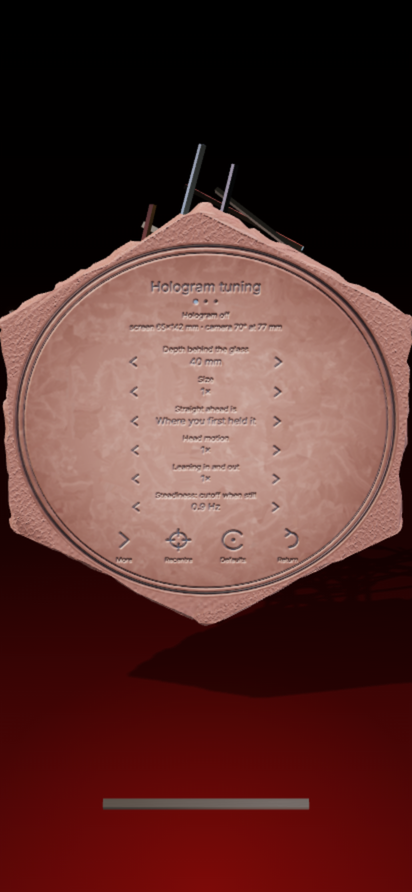
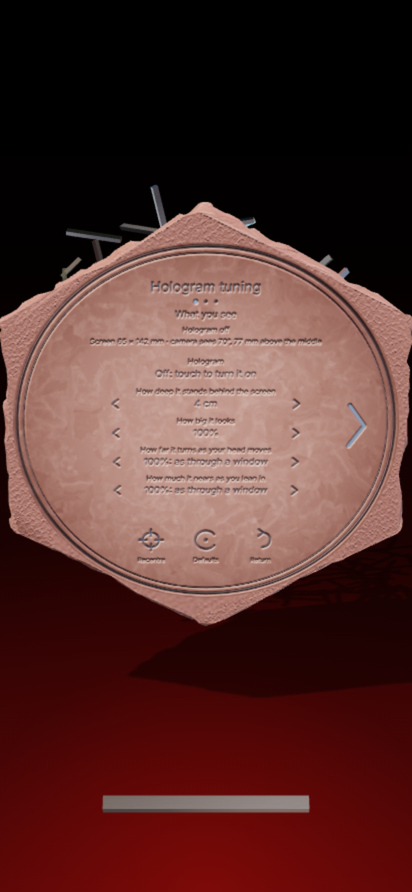
Kal-toh 2.3: begin anew works after a change of game; README and pictures
- After the original game gave way to rings, "begin anew" and shaking
  did nothing: they still read the original game's last phase, which
  stays "dissolving". Only the game in play is asked now.
- README for 2.3: the two games, the original's rules, ways that say
  what they mean, arrows at the rim to turn pages, the hologram's on/off
  and its tuning in plain words, and how the camera is read. New
  pictures: the jumble, the finished kal-toh on its axis, the carving
  read in Standard, the ways with an arrow, the tuning.

Claude-Session: https://claude.ai/code/session_01CQSpDyMziA3C9B7p659SkK

diff --git a/kaltoh/android/app/src/main/assets/www/js/main.js b/kaltoh/android/app/src/main/assets/www/js/main.js
@@ -748,8 +748,13 @@ async function vulcanTurn() {
 
 // --- Beginning anew --------------------------------------------------------------------------
 
+// Whether the game in play is falling away, a new one on its way.
+function dissolving() {
+  return way === 'classic' ? classic?.phase === 'dissolving' : phase === 'dissolving';
+}
+
 function restart() {
-  if (phase === 'loading' || phase === 'dissolving' || classic?.phase === 'dissolving') return;
+  if (phase === 'loading' || dissolving()) return;
   if (way === 'classic') {
     hand.holding = false;
     hand.flight = null;
@@ -886,7 +891,7 @@ function onEngravedOption(key, value) {
 
 const shake = new ShakeDetector({
   onProgress(p) {
-    shaking = phase === 'dissolving' || classic?.phase === 'dissolving' || hand.holding ? 0 : p;
+    shaking = dissolving() || hand.holding ? 0 : p;
     if (shaking > 0.1) sound.rattle(p);
   },
   onComplete: () => {

diff --git a/kaltoh/README.md b/kaltoh/README.md
@@ -2,20 +2,30 @@
 
 > "Kal-toh is to chess as chess is to tic-tac-toe."
 
-A playable take on the Vulcan game of *Star Trek: Voyager*, as an Android app. A splintering
-nest of steel *t'an* hangs over a stone basin, gathered about a centre mass and held by a field
-that spins on a hidden axis. Players take turns placing one t'an at a time. Close a loop around
-that hidden axis and it becomes a ring. Overload the structure and pieces fall. Ring by ring,
-order comes out of the chaos, and when the form is complete the chaos falls away.
+A playable take on the Vulcan game of *Star Trek: Voyager*, as an Android app, with two games
+of steel *t'an* on a stone basin:
+
+- **The kal-toh**, the way to play at first. A jagged jumble of t'an rests over the basin. Join
+  two tips at a time with a new t'an: true neighbours bring order, false bonds fall, until the
+  jumble becomes the kal-toh, two concentric icosidodecahedra joined junction to junction,
+  spinning true on its hidden axis.
+- **Rings.** A splintering nest of t'an hangs over the basin, gathered about a centre mass and
+  held by a field that spins on a hidden axis. Close a loop around that axis and it becomes a
+  ring. Overload the structure and pieces fall. Ring by ring, order comes out of the chaos.
 
 Nothing is written on the screen. The title, the instructions and every control are carved into
 the underside of the stone: tip the base over to read them, from whichever side you like.
 
 <p align="center">
-  <img src="docs/nest.png" width="19%" alt="The starting nest">
+  <img src="docs/jumble.png" width="19%" alt="The jumble of the original game">
+  <img src="docs/sphere.png" width="19%" alt="The completed kal-toh, spinning on its axis">
+  <img src="docs/nest.png" width="19%" alt="The starting nest of rings">
   <img src="docs/ring.png" width="19%" alt="A ring forming">
-  <img src="docs/complete.png" width="19%" alt="A completed globe">
+  <img src="docs/complete.png" width="19%" alt="A completed globe of rings">
+</p>
+<p align="center">
   <img src="docs/underside.png" width="19%" alt="The carved underside of the base">
+  <img src="docs/ways.png" width="19%" alt="The ways to play, with an arrow at the rim to turn the page">
   <img src="docs/tuning.png" width="19%" alt="The hologram's tuning, carved">
 </p>
 
@@ -38,16 +48,41 @@ over an older one without uninstalling.
 |---|---|
 | Turn the base | Drag the stone or open space. Sideways spins it like a potter's wheel; up and down tips it toward or away from you, all the way over. Let go mid-drag and it glides on, then stops. The base always turns about the centre of the sphere-to-be. |
 | Turn the t'an | Drag anywhere within the t'an's outline, even between them. The assembly turns on the base and stays wherever you leave it. It has its own weight: when the base turns it lags behind and catches up, and flung, it coasts to a stop. Left alone it never moves on the base at all. It never cuts into the stone. While it turns, the stone gives way just enough; when the stone is turned into it, the t'an are bumped aside and settle against it. |
-| Place a t'an | Put **two fingers** on the t'an lying at the foot of the screen to lift it. Move each finger onto a piece of the kal-toh. The two pieces glow blue, and the held t'an shows exactly where it will rest. Let go to place it. |
+| Place a t'an | Put **two fingers** on the t'an lying at the foot of the screen to lift it. Move each finger onto a piece of the kal-toh: in the original game, near the tip you mean to join (the tips light up); in rings, anywhere on a piece. The pieces glow blue, and the held t'an shows exactly where it will rest (amber where it cannot). Let go to place it. |
 | Read | **Tip the base over**, from any side. The carving is found with its top up whichever side it came up from, and as the underside comes to face you it draws near to be read: the title, whose turn it is and the score, what just happened, and how to play. |
 | Translate | Everything is carved in Vulcan. **Touch anywhere on the carving** but a glyph or a value: all of it is smoothed away to bare stone and cut again in Standard, as deep. Touch again for Vulcan. |
-| Test the spin | **Tap the t'an twice**, or touch the spiral carved under the base. The kal-toh spins on its hidden axis, and strained t'an glow amber. |
-| Ways to play | Touch the circle carved under the base. Touch a way's value to change it, then *begin anew* to play that way. The lens with rays there opens the hologram's tuning. |
+| Test the spin | **Tap the t'an twice**, or touch the spiral carved under the base. The kal-toh spins on its hidden axis: in the original game an unbalanced one wobbles; in rings, strained t'an glow amber. |
+| Ways to play | Touch the circle carved under the base. The first way is the game itself. Touch a value to change it; some say beneath what they mean. Where there are more ways than fit, a large **arrow carved at the rim** turns the page, and one on the other side turns back. A change to the game waits for a new one: the carving says so and *begin anew* glows. Touch it to play that way. The lens with rays there opens the hologram's tuning. |
 | Begin anew | **Shake the phone for three seconds**, or touch *begin anew* under the base. |
 | Draw nearer | Pinch. |
-| Hologram | Touch the lens carved under the base (or turn it on in the ways to play). See below. |
+| Hologram | Touch the lens carved under the base: beneath it is carved *Hologram on* or *Hologram off*. It is also the first row of the hologram's tuning, and a row of the ways to play. See below. |
 
-### The rules
+### The kal-toh (the original game)
+
+- **The hidden form.** The jumble is the kal-toh scrambled. Its true skeleton is a tree of 29
+  t'an from the outer icosidodecahedron, with every joint twisted about its own t'an, so the
+  joints keep their true angles: two t'an meeting at **60°** frame a triangle of the finished
+  sphere, at **108°** a pentagon. The other 90 t'an (the inner shell and the struts between the
+  shells) are tangled through it. Only junctions of the hidden order answer your touch.
+- **A move** joins the tips of two t'an with a new one. Because the skeleton is a tree, every
+  join closes a loop, and the pieces shift until the tips meet.
+  - *Harmony*: the tips are true neighbours in the sphere. The loop pulls into its true shape, a
+    blue wave runs through the structure, and the tangled t'an nearby glide into the inner shell.
+    Closing one of the six great hoops of ten sends a brighter wave round it.
+  - *Discord*: they are not. The new t'an falls away in amber, shaking loose the newest bond at
+    those tips, and the structure slips back toward chaos.
+- **The hidden spin.** The structure spins about a hidden axis, different every game. Every t'an
+  is mass on that spin. A join that would unbalance it past what it can bear is *flung* away even
+  if it is true. Test the spin to find the axis: a balanced kal-toh spins true, an unbalanced one
+  wobbles, its axis circling toward the heavy side. Build evenly around it.
+- **The end.** The sphere is complete when all 60 outer t'an are in place. The inner shell
+  settles, a thread of light shows the axis, and the kal-toh glows. Alone, you are told how many
+  moves it took and how many t'an fell. With others (one to four, taking turns), whoever places
+  the final t'an wins: plan so that your rival is left with only discord or imbalance.
+- Everything rests on the stone as the rings game does: the kal-toh keeps its place on the base,
+  turns with it, is never cut into by it, and its fallen t'an lie where they fall until a new game.
+
+### Rings
 
 - **The t'an** are all one length. They cling magnetically where they touch, and never pass
   through one another. The opening nest is made by dropping each t'an toward the centre mass
@@ -78,14 +113,14 @@ over an older one without uninstalling.
   When the form is complete, everything that is not a ring, the centre mass, or holding them
   together falls away, and the finished kal-toh glows.
 
-### Ways of play
+How to win at rings:
 
-- **Harmony** (default): a ring scores one point per t'an in it. Each t'an your move drops
-  costs one. Completing the form scores ten. The game ends when the form is complete or the
-  t'an run out.
-- **Collapse**: drop two or more t'an in one move and lose a life. The spin quickens every round.
-  The last player standing wins.
-- **Meditation**: alone, with no limit. Complete the form in as few moves as you can.
+- **Most points** (the default): a ring scores one point per t'an in it. Each t'an your move
+  drops costs one. Completing the form scores ten. The game ends when the form is complete or
+  the t'an run out.
+- **Last standing**: drop two or more t'an in one move and lose a life. The spin quickens every
+  round. The last player standing wins.
+- **Fewest moves**: alone, with no limit. Complete the form in as few moves as you can.
 
 Opponent: a Vulcan *novice*, *adept* (default) or *master*, or nobody (pass and play, one to
 four players). Other settings: the spin's strength (unknown by default), a drift, the axis hidden
@@ -96,7 +131,10 @@ whether the carving reads in Vulcan or Standard until touched.
 
 ### Strategy
 
-The axis is the secret. Until a ring forms or someone tests the spin, every loop you close is a
+In the original game, read the angles: a 60° joint is a triangle waiting to be closed, a 108°
+joint a pentagon. Test the spin early and often, and build on the light side of the axis.
+
+In rings, the axis is the secret. Until a ring forms or someone tests the spin, every loop you close is a
 guess. Testing tells everyone, and it costs your turn. Once the axis is known, rings are a race,
 and the game becomes one of tempo, as in dots and boxes. A loop left one t'an short of closing
 is a ring for your opponent, so build toward rings only where you can finish them. Building far
@@ -106,11 +144,12 @@ it found it.
 
 ### Hologram view
 
-Turn on the hologram (the lens under the base) and allow the camera. The screen becomes a pane of
-glass with the kal-toh standing a few centimetres behind it. Move your head, or the phone, and you
-look around it. Lean in and the view through the glass widens; draw back and it narrows, as
-through a real window. Nothing from the camera is shown or stored, and the camera is released
-whenever the game is out of sight. The illusion is strongest with one eye closed.
+Turn on the hologram (the lens under the base, carved *Hologram off* until it is on) and allow the
+camera. The screen becomes a pane of glass with the kal-toh standing a few centimetres behind it.
+Move your head, or the phone, and you look around it. Lean in and the view through the glass
+widens; draw back and it narrows, as through a real window. Nothing from the camera is shown or
+stored, and the camera is released whenever the game is out of sight. The illusion is strongest
+with one eye closed. While it starts, and while it looks for your eyes, the carving says so.
 
 How it works, after the usual practice for head-coupled ("fish tank") perspective:
 
@@ -118,6 +157,10 @@ How it works, after the usual practice for head-coupled ("fish tank") perspectiv
   so the gyroscope plays no part.
 - **Finding the eye.** MediaPipe's face landmarker finds both irises to a fraction of a pixel. It
   runs in a worker thread, on the GPU, or on the CPU if the GPU cannot be had.
+- **Reading the camera.** Frames are taken straight from the camera's track, so there is no
+  video element for Android to pause for being out of sight. If no frames come that way, a video
+  element kept in the page is read instead. If frames come but the GPU never finds a face, the
+  CPU takes over. Whatever it is doing is said in plain words on the tuning pages.
 - **Distance.** The iris is about 11.7 mm across in nearly everyone, so its size in the picture,
   with the camera's focal length, gives the distance.
 - **Your eye in millimetres.** Its direction from the camera, plus where the camera sits beside the
@@ -129,26 +172,29 @@ How it works, after the usual practice for head-coupled ("fish tank") perspectiv
   carried ahead along its motion by the camera's measured delay, so the view does not trail your
   head.
 
-**Tuning.** Every part of this can be tuned on its own carved page, under the base: ways to play,
-then the lens with rays. Values are always shown in numerals, so a photo of the page records a
-setting. The top lines show what the camera sees now: the eye's position in millimetres, frames
-per second and delay, the engine in use, and the screen and camera as measured.
+**Tuning.** Under the base: ways to play, then the lens with rays. Three carved pages, turned by
+the arrows at the rim: *what you see*, *how it follows you* and *your phone*. Touch the left of a
+value to step it down, the right to step it up. Values are always shown in numerals, so a photo
+of a page records a setting. The top lines say what the hologram is doing now (for instance
+*Following your eyes: 38 cm away, 2 cm left, 1 cm up · 30 a second · 60 ms behind*), then the
+screen and camera as measured and what the face finder runs on.
 
-| Value | What it does |
-|---|---|
-| Depth behind the glass | How far behind the screen the kal-toh's centre stands (mm). |
-| Size | Scale of the kal-toh. |
-| Straight ahead is | Where you first held the phone (the default), or the true middle of the screen. |
-| Head motion | Gain on how far your head moves across (1 is true). |
-| Leaning in and out | Gain on how far your head moves toward or away from the screen (1 is true). |
-| Steadiness | The one-euro filter's cutoff when still (Hz). Lower is steadier but slower. |
-| Quickness | How much the cutoff rises with speed. Higher follows fast moves more closely. |
-| Looking ahead | How far ahead the eye is carried. *Auto* uses the measured delay. |
-| Camera view | The front camera's field of view along its long side. *Auto* asks the phone. |
-| Camera above screen centre | Where the camera sits (mm). *Auto* uses the screen's cutout. |
-| Iris width | Your iris's true width, if you know it (mm). |
-| Seen from | Between the eyes, or one eye (for viewing with the other closed). |
-| Face tracker runs on | GPU or CPU. |
+| Page | Value | What it does |
+|---|---|---|
+| What you see | Hologram | On or off. |
+| | How deep it stands behind the screen | From the glass to the kal-toh's centre, in cm. |
+| | How big it looks | Its scale. |
+| | How far it turns as your head moves | 100% is true to life, as through a window. Less is calmer; more exaggerates. |
+| | How much it nears as you lean in | The same, for moving toward or away from the screen. |
+| How it follows you | Straight on is | Where you first held the phone (the default), or square to the screen. |
+| | Calm when you hold still | The one-euro filter's cutoff when still (Hz). Lower is calmer but slower to start. |
+| | Keeping up when you move fast | How much that cutoff rises with speed. Higher follows fast moves more closely. |
+| | Running ahead of the camera's delay | How far ahead the eye is carried (ms). *Auto* uses the measured delay. |
+| | It follows | The point between your eyes, or one eye (for viewing with the other closed). |
+| Your phone | The front camera's view, long side | Its field of view. *Auto* asks the phone. |
+| | The front camera, above the screen's middle | Where the camera sits (mm). *Auto* uses the screen's cutout. |
+| | Your iris, across | Your iris's true width, if you know it (mm). 11.7 fits nearly everyone. |
+| | The face finder runs on | The GPU (quicker) or the CPU (surer). |
 
 The recentre glyph sets where you hold the phone now as the centre; the defaults glyph restores
 every value. If the page cannot use the camera at all, the Android shell's own, rougher face
@@ -169,10 +215,15 @@ tracker takes over.
       stay in touch, nothing interpenetrates, and the most stretched contact lets go first.
     - `rules.js`: placement, loops around the axis (a breadth-first search over how many times a
       path has crossed a cut around the axis), rings, forms, modes, scoring.
+    - `classic-rules.js`: the original game. The icosidodecahedral lattice, the jumble (a
+      balanced spanning tree with every joint twisted, steered clear of the stone beneath it),
+      harmony, discord, imbalance and the wobble.
     - `ai.js`, `ai-worker.js`: the Vulcan. It tries moves on copies of the game, looks a reply
       ahead, and builds arcs round the axis. It knows the axis only once it has been revealed.
-  - The view: `scene.js` (renderer, lights, mess-hall reflections, the stone, and the window
-    the screen becomes), `motion.js` (base and assembly dynamics, and every t'an kept clear of
+  - The view: `classic.js` (the original game on the stone: the jumble's skeleton kept rigid by a
+    small position-based solver as each junction finds its order, the inner shell settling into
+    place, joining, the spin test and the end), `scene.js` (renderer, lights, mess-hall
+    reflections, the stone, and the window the screen becomes), `motion.js` (base and assembly dynamics, and every t'an kept clear of
     the stone along its length), `rodmesh.js` (brushed stainless t'an with a procedural
     lengthwise scratch normal map), `falling.js` (fallen t'an: tumbling, coming to rest on the
     stone or the floor, and staying until a new game), `tray.js`, `input.js`, `engrave.js`
@@ -192,7 +243,12 @@ tracker takes over.
   - `rules.test.mjs`: placement, rings, forms, modes, the Vulcan, and physical invariants
     checked after every move of many random games. Every t'an keeps its length, nothing passes
     through anything, nothing floats, and every bond bears its load.
-  - `browser-check.cjs`: plays the real game in headless Chromium with simulated touch. It covers
+  - `classic.test.mjs`: the original game's lattice, jumbles (every t'an whole, every joint true),
+    harmony, discord, and complete spheres, balanced and won by whoever places the last t'an.
+  - `browser-check.cjs`: plays the real game in headless Chromium with simulated touch. First the
+    original game: the jumble grows, a two-finger lift joins true neighbours, a false bond falls,
+    two taps test the spin, and no t'an passes into the stone. Then it changes the game in the
+    carved ways to play, turning their pages by the arrows at the rim, and plays rings. It covers
     placing, the Vulcan's reply, the spin test, a ring, and turning the base: the t'an lag, catch
     up, then hold perfectly still. It turns the t'an by their area and checks no t'an ever passes
     into the stone. It turns the base over to read it (top up whichever way it was turned) and
@@ -205,6 +261,7 @@ tracker takes over.
 ```sh
 node kaltoh/tools/physics.test.mjs
 node kaltoh/tools/rules.test.mjs
+node kaltoh/tools/classic.test.mjs
 node kaltoh/tools/browser-check.cjs out/   # needs Playwright with Chromium
 node kaltoh/tools/browser-check.cjs out/ face.y4m   # and the hologram, with a video of a face
 ```
